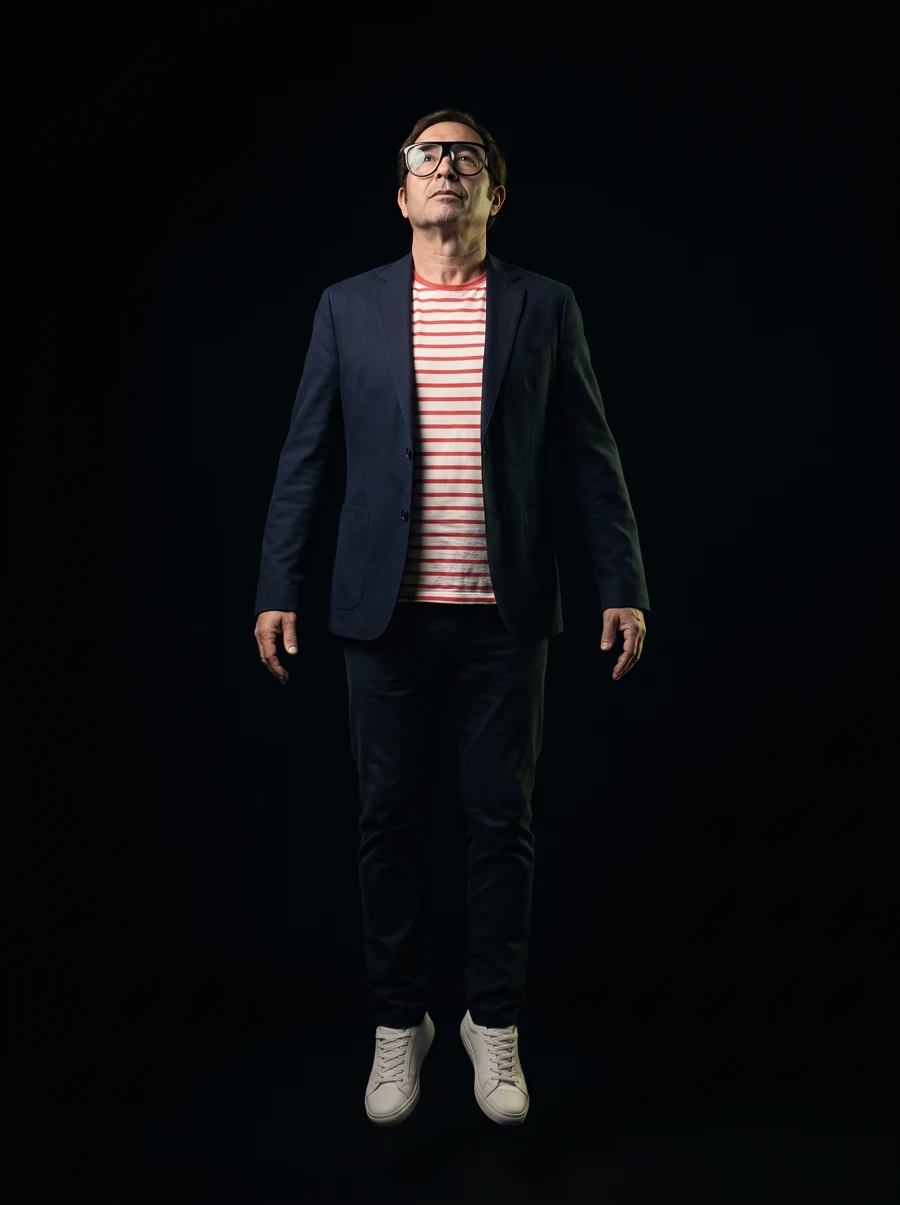
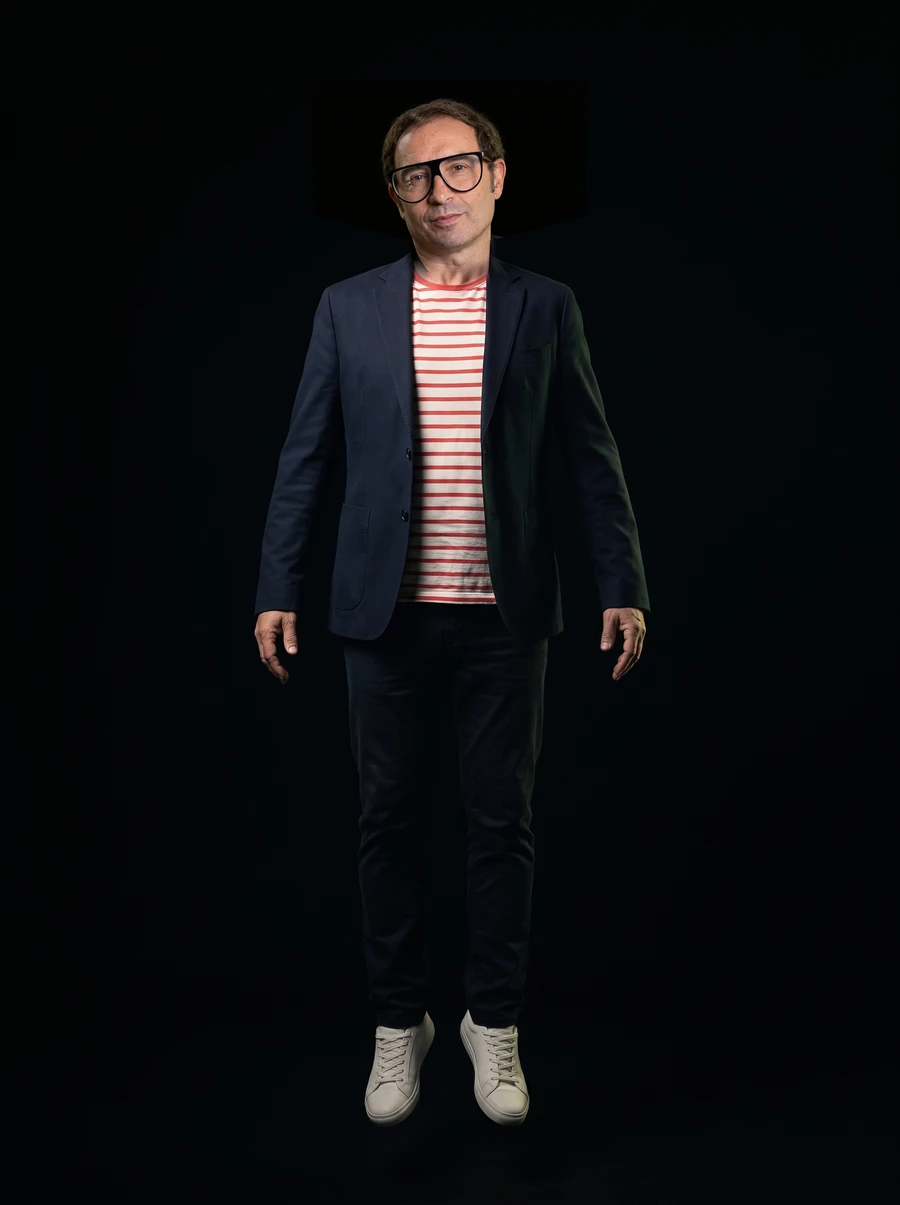
fix: preserve Kike and CEO likeness from episode references

Changed region(s): [[0.4044, 0.0614, 0.56, 0.2456]]

diff --git a/design.md b/design.md
@@ -60,3 +60,21 @@ Compilación Astro correcta. Reiniciado el servidor después de sustituir `publi
 - Documentación de ejecución actualizada en `web/README.md`. Vista previa local en http://localhost:4321.
 
 El material original permanece intacto. No se ha publicado la web. La compilación incluye el episodio original de 1,19 GB: una distribución pública debería usar una versión comprimida o alojamiento de vídeo. Los seis recursos gráficos de la experiencia pesan en conjunto unos 600 KB; el episodio solo se solicita al reproducirlo.
+
+## 10 · Revisión de identidad: Kike y CEO
+Petición: guardar la versión existente en Git y rehacer ambos personajes porque el parecido no es suficiente. No existía repositorio; inicializado Git en la raíz y creado el commit `0bbfdb8` como punto de retorno. El episodio original, dependencias, compilaciones y capturas temporales quedan excluidos de Git.
+
+Revisión de doce planos del episodio guardada en `references/identity-review.jpg`. El primer CEO se había generado desde un fotograma con los ojos cerrados; Kike se había interpretado desde una vista lateral con capucha. Nuevas referencias: CEO a 00:15 y 00:23; Kike frontal a 04:17 y en tres cuartos a 02:38. Kike aparece sin capucha, con gafas redondas finas, pelo corto oscuro, barba corta y camiseta blanca. Se prioriza conservar esos rasgos reales frente a la estética genérica de hacker.
+
+Esta revisión pide una edición del retrato fuente: cambiar fondo e iluminación manteniendo geometría facial, edad, asimetrías y gafas. No se reutilizan los rostros generados anteriores como referencias de identidad. También se revisará el CEO de cuerpo entero para mantener el parecido durante el ascenso.
+
+## 11 · Retratos corregidos e integración
+Las dos nuevas imágenes se generaron correctamente en Higgsfield a partir de dos fotogramas originales por actor:
+- Kike: `fb32ada7-2563-4c48-9f7b-273a6d6c57e2`. Sin capucha, con sus gafas de alambre, pelo corto, barba ligera y camiseta del episodio.
+- CEO: `663771c4-183f-4fe0-98e5-d93a75e88fbf`. Se conserva la inclinación natural de la cabeza, frente, gafas grandes y expresión del actor.
+
+Revisadas visualmente contra las referencias y convertidas a WebP de 900 px en el sandbox de Higgsfield. La generación adicional del cuerpo entero fue rechazada por falta de créditos. Para evitar regresar al rostro anterior durante el ascenso, se compuso el rostro nuevo sobre el cuerpo existente con una máscara ajustada al cuello y bordes suavizados, también dentro de Higgsfield. Se corrigió la máscara tras revisar el primer montaje para eliminar hombros duplicados. No se han comprado créditos ni cambiado el plan.
+
+Sustituidos `ceo.webp`, `hacker.webp` y `ascent.webp`. Añadida versión `?v=2` a sus URL y a la precarga del CEO para que el navegador no conserve los retratos anteriores. El resto de personajes y el motor de animación se mantienen.
+
+Prompts, referencias, trabajos, errores de cuota y método de composición guardados en `references/identity-v2.json`. Compilación correcta y verificación visual en 1440 × 900 y 390 × 844. Cargan ambos retratos y el ascenso, sin errores HTTP ni desbordamiento horizontal. La revisión se guarda en un segundo commit separado del punto de retorno.
